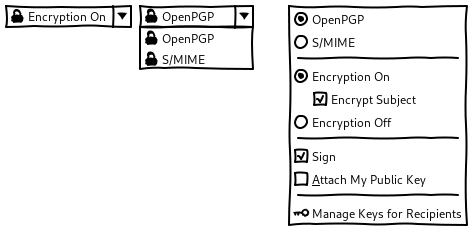
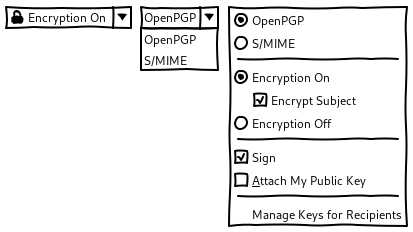
Improve OpenPGP/SMIME toggle

Changed region(s): [[0.0, 0.0, 1.0, 1.0]]

diff --git a/jekyll/index.md b/jekyll/index.md
@@ -450,7 +450,7 @@ in this menu despite the **Encryption** label.
 OpenPGP and S/MIME split button
 -------------------------------
 
-If both OpenPGP and S/MIME are enabled for the current account, the choice between both encryption technologies is available from:
+If the user has accounts with both OpenPGP and S/MIME, the choice between both encryption technologies is available from:
 
 - A dropdown, left from the **Encryption** split button.
 - Radio buttons, in the **Encryption** menu.
